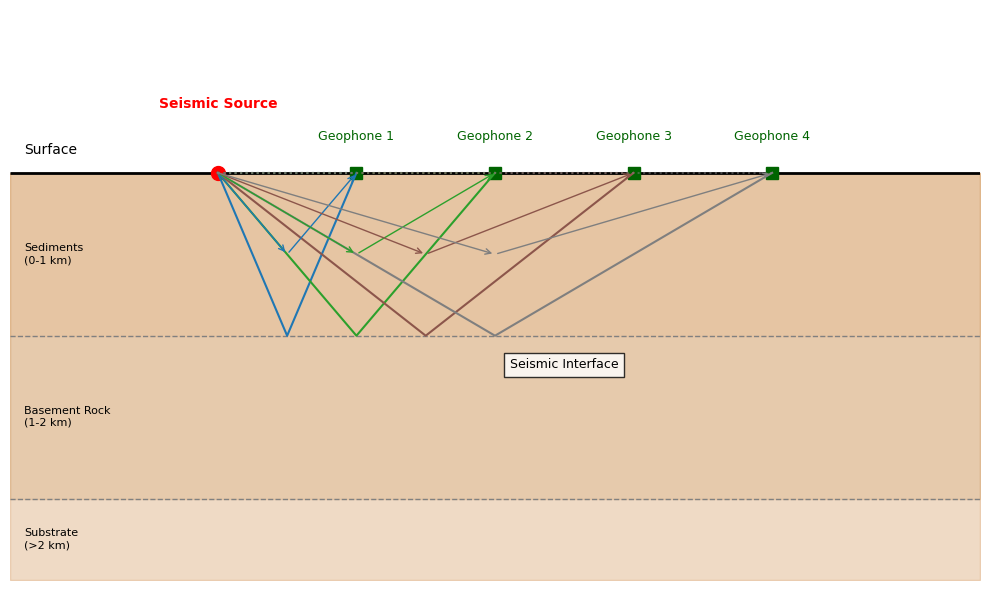
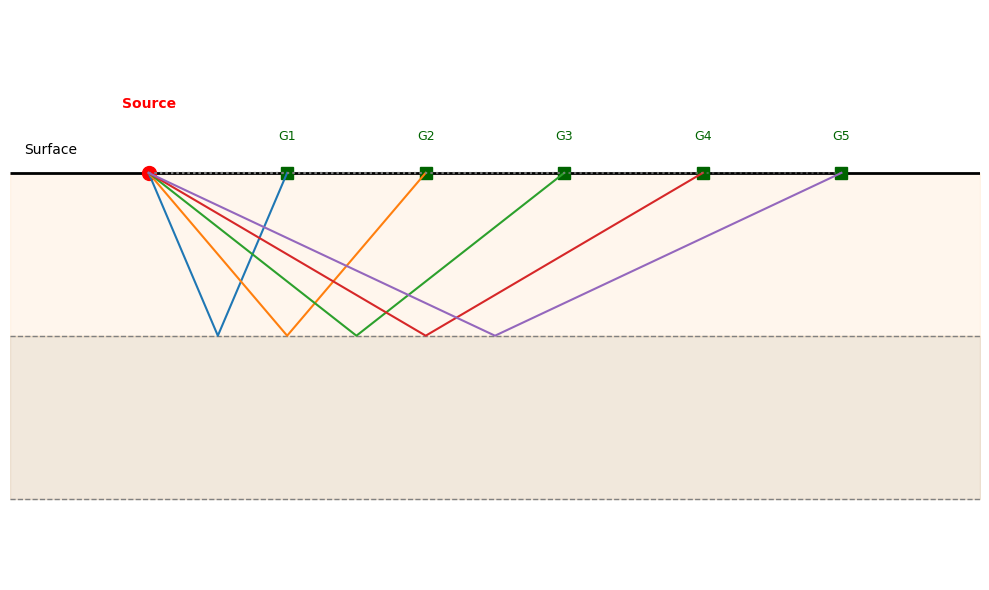
feat(acquisition): change seismic acquisition geometry

diff --git a/reflection/ray_tracing/src/seismic_acquisition.py b/reflection/ray_tracing/src/seismic_acquisition.py
@@ -1,55 +1,43 @@
 import numpy as np
 import matplotlib.pyplot as plt
 
-def plot_seismic_acquisition():
+def plot_seismic_acquisition(n_receivers, spacing, source_x, layer_depths, x_min, x_max):
     """
-    Plots a didactic seismic acquisition setup with source, receivers, geological layers, and seismic rays.
+    Plots seismic acquisition geometries with configurable parameters.
     """
-
     fig, ax = plt.subplots(figsize=(10, 6))
-    ax.set_xlim(-2, 12)
-    ax.set_ylim(-2.5, 1.0)
+    ax.set_xlim(x_min, x_max)
+    ax.set_ylim(min(layer_depths) - 0.5, 1.0)
 
     # Surface
-    ax.hlines(0, -2, 12, color='black', linewidth=2)
-    ax.text(-1.8, 0.1, 'Surface', fontsize=10, va='bottom')
+    ax.hlines(0, x_min, x_max, color='black', linewidth=2)
+    ax.text(x_min+0.2, 0.1, 'Surface', fontsize=10, va='bottom')
 
     # Source
-    ax.plot(1, 0, 'ro', markersize=10)
-    ax.text(1, 0.4, 'Seismic Source', color='r', ha='center', fontsize=10, weight='bold')
+    ax.plot(source_x, 0, 'ro', markersize=10)
+    ax.text(source_x, 0.4, 'Source', color='r', ha='center', fontsize=10, weight='bold')
 
     # Receivers
-    for i in range(3, 11, 2):
-        ax.plot(i, 0, 's', color='darkgreen', markersize=8)
-        ax.text(i, 0.2, f'Geophone {i//2}', ha='center', fontsize=9, color='darkgreen')
+    receivers = np.arange(source_x + spacing, source_x + spacing*(n_receivers+1), spacing)
+    for i, rx in enumerate(receivers, 1):
+        ax.plot(rx, 0, 's', color='darkgreen', markersize=8)
+        ax.text(rx, 0.2, f'G{i}', ha='center', fontsize=9, color='darkgreen')
     
     # Layers
-    ax.hlines(-1, -2, 12, linestyles='dashed', colors='gray', linewidth=1)
-    ax.hlines(-2, -2, 12, linestyles='dashed', colors='gray', linewidth=1)
-    ax.fill_between([-2, 12], -1, 0, color='bisque', alpha=0.3)
-    ax.fill_between([-2, 12], -2, 0, color='tan', alpha=0.3)
-    ax.fill_between([-2, 12], -2.5, 0, color='peru', alpha=0.3)
-    
-    # Layer labels
-    ax.text(-1.8, -0.5, 'Sediments\n(0-1 km)', fontsize=8, va='center')
-    ax.text(-1.8, -1.5, 'Basement Rock\n(1-2 km)', fontsize=8, va='center')
-    ax.text(-1.8, -2.25, 'Substrate\n(>2 km)', fontsize=8, va='center')
+    for d in layer_depths:
+        ax.hlines(d, x_min, x_max, linestyles='dashed', colors='gray', linewidth=1)
+    colors = ['bisque', 'tan', 'peru']
+    for i in range(len(layer_depths)):
+        ax.fill_between([x_min, x_max], layer_depths[i], layer_depths[i-1] if i > 0 else 0, 
+                        color=colors[i % len(colors)], alpha=0.3)
 
-    # Seismic rays
-    colors = plt.cm.tab10(np.linspace(0, 1, 5))
-    for i, (x, c) in enumerate(zip(range(3, 11, 2), colors)):
-        reflex_point = (1 + x) / 2
-        ax.plot([1, x], [0, 0], ':', color=c, alpha=0.5) # direct ray
-        ax.plot([1, reflex_point, x], [0, -1, 0], '-', color=c, linewidth=1.5) # reflected
-        ax.annotate('', xy=(reflex_point, -0.5), xytext=(1, 0),
-                    arrowprops=dict(arrowstyle="->", color=c))
-        ax.annotate('', xy=(x, 0), xytext=(reflex_point, -0.5),
-                    arrowprops=dict(arrowstyle="->", color=c))
-    
-    ax.text(6, -1.2, 'Seismic Interface', fontsize=9, ha='center',
-            bbox=dict(facecolor='white', alpha=0.8))
+    # Rays
+    for i, rx in enumerate(receivers, 1):
+        reflex_point = (source_x + rx) / 2
+        ax.plot([source_x, rx], [0, 0], ':', color='gray', alpha=0.5) # direto
+        ax.plot([source_x, reflex_point, rx], [0, layer_depths[0], 0], '-', linewidth=1.5)
     
     ax.axis('off')
     plt.tight_layout()
     plt.show()
-    # fig.savefig("seismic_acquisition.png")
+
